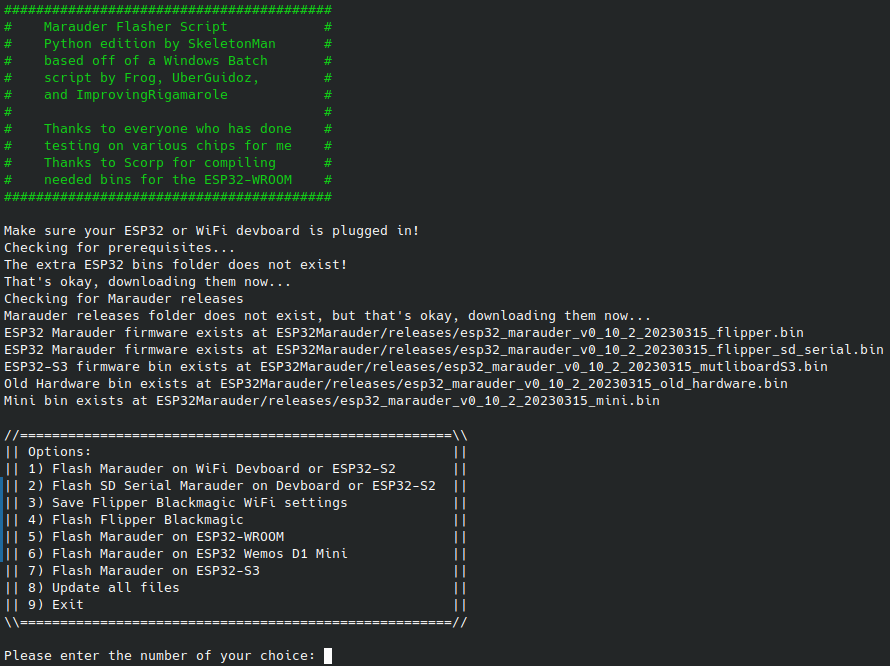
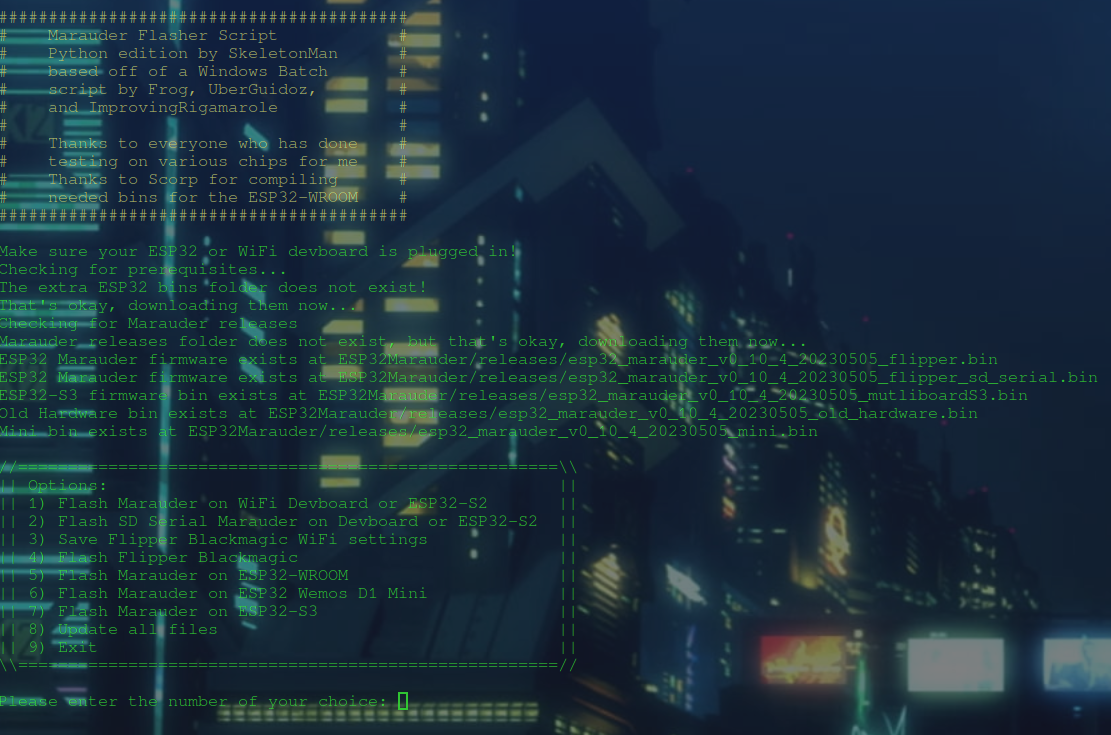
Added a new parameter for specifying serial port. EasyInstall now tries to erase and flash up to 3 times if it fails. Updated README and screenshot

diff --git a/EasyInstall.py b/EasyInstall.py
@@ -12,6 +12,12 @@ import esptool
 from colorama import Fore, Back, Style
 from pathlib import Path
 import git
+import argparse
+
+parser=argparse.ArgumentParser()
+parser.add_argument('-s', '--serialport', type=str, help="Define serial port", default='')
+args=parser.parse_args()
+serialport=args.serialport
 
 OPENASCII=Fore.GREEN+'''
 #########################################
@@ -34,7 +40,14 @@ BR=str("115200")
 
 def checkforserialport():
 	global serialport
-	serialport=''
+		
+
+	if serialport!='':
+		print("Will not check for serial port or possible chip type since it is specified as", serialport)
+		return
+	else:
+		serialport=''
+	print("Checking for serial port...")
 	vids=['303A','10C4','1A86', '0483']
 	com_port=None
 	ports=list(serial.tools.list_ports.comports())
@@ -141,11 +154,25 @@ def choose_fw():
 
 def erase_esp32fw():
 	global serialport
-	print("Erasing firmware...")
-	esptool.main(['-p', serialport, '-b', BR, '-c', chip, '--before', 'default_reset', '-a', 'no_reset', 'erase_region', '0x9000', '0x6000'])
-	print("Firmware erased!")
+	tries=3
+	attempts=0
+	for i in range(tries):
+		try:
+			attempts+=1
+			print("Erasing firmware...")
+			esptool.main(['-p', serialport, '-b', BR, '-c', chip, '--before', 'default_reset', '-a', 'no_reset', 'erase_region', '0x9000', '0x6000'])
+		except Exception as err:
+			print(err)
+			if attempts==3: 
+				print("Unable to erase the firmware on", chip)
+				exit()
+			print("Waiting 5 seconds and trying again...")
+			time.sleep(5)
+			continue
+			print(chip, "was successfully erased!")
+			break
 	print("Waiting 5 seconds...")
-	time.sleep(5)
+	time.sleep(5)	
 	return
 
 def checkforesp32marauder():

diff --git a/README.md b/README.md
@@ -9,11 +9,12 @@ If you are flashing an ESP32 board, you need to install the [driver from here](h
 
 ## It is now simple to install or update Marauder on Linux, Mac OS X, or Windows.
 # How to use: 
-* Step 0 only has to be ran once
+* Step 0 only has to be ran once. (That doesn't mean it's okay to skip it unless you're running it again after having just used it)
 0) run `pip3 install -r requirements.txt`. 
-1) Connect the devboard or ESP32 board via USB.
-2) Press and hold the `BOOT` button on the module, press and release the `RESET` button.
-3) Release the BOOT button. 
+1) Press and hold the `BOOT` button on the module
+2) Connect the devboard or ESP32 board via USB.
+3) Press and release the `RESET` button.
+4) Release the BOOT button. 
 5) run `python3 EasyInstall.py`. 
 6) Select the option of what you want to do
 
@@ -44,10 +45,25 @@ RX0 -> TX
 GND -> GND  
 3v3 -> 3v3  
 
+## Optional parameters
+There are now optional parameters
+* `-h` or `--help` - Show help
+* `-s` or `--serialport` <Serial Port>
+For example, if you have a device you know is on `/dev/ttyUSB0`, you could specify it with `python3 EasyInstall.py -s /dev/ttyUSB0` 
+* Using this option will skip automatic detection of the serial port and will not try to identify the device
+
+## Issues with flashing?
+Here are some steps to try:  
+* Ensure you have followed the steps above and installed any necessary prerequisites
+* Check that your computer can see the device. In Linux, run `lsusb`, on Mac run `system_profiler SPUSBDataType`, on Windows, open your Device Manager and look for it
+* Try a different cable
+* Try a different USB port
+* Check your permissions. On Linux, you may have to change ownership of the serial port, for example, /dev/ttyUSB0 is typically owned by root, so you may need to run something like `chown user:group /dev/ttyUSB0`
+
 ## TODO:
 * Code cleanup.  
 * Add more chip compatibility.
-* Attempt to accommodate 3rd-party knock-off chips that are not from Espressif
+* Attempt to accommodate more boards that can be used with Marauder
 
 ## Acknowledgements:
 Disclaimer: Includes Acknowledgements from the above linked repo from UberGuidoz as this wouldn't exist without the original project
